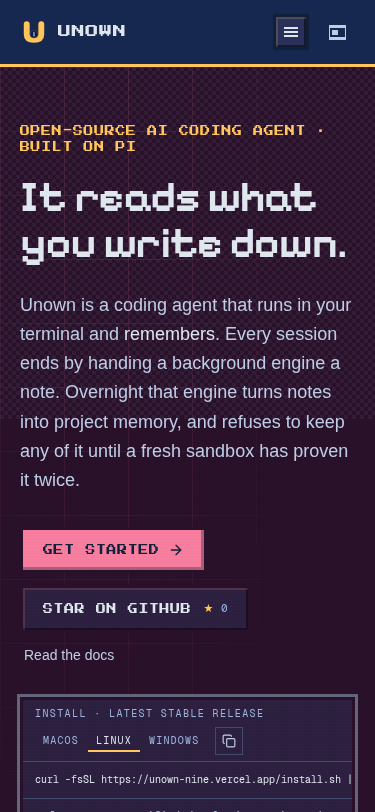
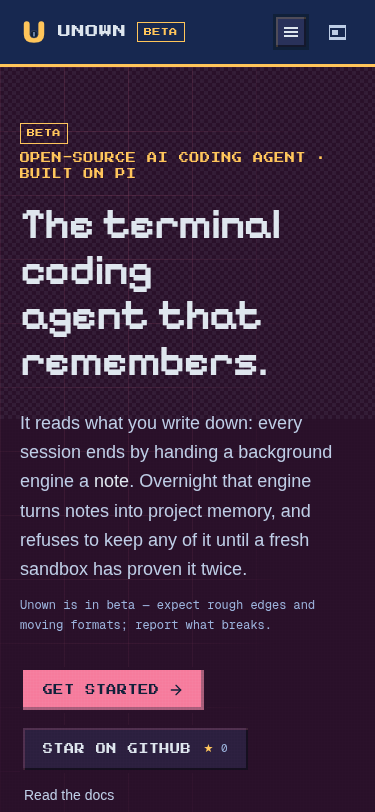
landing: the beta mark — one status, three homes
The page argued capability, proof and record but never said what stage
the product is in; a first-time visitor met full-confidence copy with no
signal that the release line is 0.0.x and formats still move. The mark
ships as the pattern the surveyed field converged on (Vercel/Figma badge
next to the name; Vercel feature pages + Raycast one plain-language
sentence next to the H1): BetaBadge — a bordered pixel chip in the
console grammar, gold on panel, palette tokens only, non-interactive
plain text — in the header wordmark and the hero kicker, with
'Currently in beta.' closing the loop in the footer and the hero
carrying the sentence half ('Unown is in beta — expect rough edges and
moving formats; report what breaks.'). Wording settled against the
research ladder: plain beta, because the product is open, free and
ungated; the claim is defensible by the page's honesty rule.

Budget accounted: +18 words on 66 of headroom (3196/3200 after), OG
shots regenerated for the changed hero. Gates: 105 unit tests (2 new
pins), coverage 100% on changed lines, palette/contrast/theme-toggle/
budget/e2e 9/9 all green; verify-deploy.mjs now asserts both halves of
the badge+sentence pair on the live deployment. Docs: landing-research
'2026-10-25 — the beta mark' section, landing AGENTS.md chrome contract
(and the stale MAX_LISTED=2 doc line corrected to the code's 1).

Changed region(s): [[0.0293, 0.1539, 0.968, 1.0], [0.3813, 0.0308, 0.4987, 0.0616], [0.792, 0.7389, 0.8507, 0.7697]]

diff --git a/src/components/landing/shell.tsx b/src/components/landing/shell.tsx
@@ -442,6 +442,35 @@ export function GhostLink({
 }
 
 /* ------------------------------------------------------------------ */
+/* beta badge                                                          */
+/* ------------------------------------------------------------------ */
+
+/**
+ * The product's stage, said where the product's name is. A bordered pixel
+ * chip in the console grammar — square corners, `gb-label`, gold on panel —
+ * not a rounded SaaS pill: the one smooth-cornered thing on the page would
+ * be the badge, which is exactly the wrong place to break the voice.
+ *
+ * Plain text, not `aria-hidden`: "Beta" is a real status a screen reader
+ * should announce (GOV.UK Tag guidance — status indicators are text, not
+ * iconography), and the hero carries the plain-language sentence that says
+ * what the badge means. Non-interactive on purpose: it states a fact, it is
+ * not a control.
+ */
+export function BetaBadge({ className }: { className?: string }) {
+  return (
+    <span
+      className={
+        "gb-label inline-flex items-center border border-gold px-1.5 py-[3px] text-[8px] leading-none text-gold " +
+        (className ?? "")
+      }
+    >
+      Beta
+    </span>
+  );
+}
+
+/* ------------------------------------------------------------------ */
 /* nav                                                                 */
 /* ------------------------------------------------------------------ */
 
@@ -520,6 +549,11 @@ export function Nav() {
             label="Unown"
           />
           <span className="gb-label text-[13px] text-ink">unown</span>
+          {/* The stage, next to the name — the Vercel/Figma badge placement:
+              a visitor learns "beta" in the same glance that learns the
+              product's name, before any claim is read. Not hidden below a
+              breakpoint: on a phone the header is the first screen too. */}
+          <BetaBadge />
           <span className="gb-label hidden text-[8px] text-faint min-[430px]:inline">
             self-improving
           </span>
@@ -750,6 +784,14 @@ export function Footer() {
             <p className="gb-term mt-3 text-[17px] leading-snug text-faint">
               A terminal coding agent that turns sessions into notes, and notes into
               verified memory.
+            </p>
+            {/* The stage, restated at the bottom: the footer is where a reader
+                who scrolled everything still gets the status before the legal
+                line — and where the beta badge's claim is spelled out in
+                plain words one last time. */}
+            <p className="mt-2 flex items-center gap-2 font-mono text-[11px] text-faint">
+              <span className="size-1 bg-gold/70" aria-hidden="true" />
+              Currently in beta.
             </p>
           </div>
 

diff --git a/src/components/landing/hero.tsx b/src/components/landing/hero.tsx
@@ -3,7 +3,7 @@ import { Glyph } from "./glyph";
 import type { GlyphId } from "./glyphs";
 import { InstallPanel } from "./install-panel";
 import { SessionReplay } from "./session-replay";
-import { CopyButton, GhostLink, PixelCursor, PrimaryLink, GITHUB_URL, DOCS_URL } from "./shell";
+import { CopyButton, GhostLink, PixelCursor, PrimaryLink, GITHUB_URL, DOCS_URL, BetaBadge } from "./shell";
 import { StarCount } from "./star-count";
 
 /**
@@ -170,8 +170,18 @@ export function Hero() {
               <pre>'s min-content; without it the git-clone URL sets the
               column's intrinsic width and the section clips it on phones. */}
           <div className="max-w-2xl min-w-0">
-            <p className="gb-label text-[10px] text-gold">
-              Open-source AI coding agent · built on pi
+            {/* The stage, said in the same breath as the category — the badge
+                the Vercel/Figma product pages carry next to their H1s. It is
+                the `BetaBadge` from shell.tsx (one component, three homes:
+                here, the header wordmark, the footer note), and the sentence
+                under the subhead below is the plain-language half of the
+                pattern: a badge states the stage, a sentence says what it
+                means for the reader. */}
+            <p className="flex flex-wrap items-center gap-x-2.5 gap-y-1.5">
+              <BetaBadge />
+              <span className="gb-label text-[10px] text-gold">
+                Open-source AI coding agent · built on pi
+              </span>
             </p>
 
             {/* The h1 carries the search phrases ("terminal coding agent") —
@@ -190,6 +200,16 @@ export function Hero() {
               <span className="text-ink">note</span>. Overnight that engine turns notes into
               project memory, and refuses to keep any of it until a fresh sandbox has proven it
               twice.
+            </p>
+
+            {/* What "beta" means here, in words — the plain-language half of
+                the badge pattern (Vercel's feature pages pair the badge with
+                one sentence of availability copy; Raycast states it in the
+                subtitle). Honest by the page's own rule: the version line is
+                0.0.x, the changelog records moving formats, and issues are
+                where rough edges go. */}
+            <p className="mt-3 max-w-xl font-mono text-[12px] leading-relaxed text-faint">
+              Unown is in beta — expect rough edges and moving formats; report what breaks.
             </p>
 
             <div className="mt-8 flex flex-wrap items-center gap-3">

diff --git a/src/components/landing/__tests__/landing-copy.test.tsx b/src/components/landing/__tests__/landing-copy.test.tsx
@@ -81,6 +81,24 @@ describe("landing hero", () => {
     expect(container.innerHTML).not.toContain("sk-");
   });
 
+  test("states its beta stage in the badge + plain-language pair the research settled on", () => {
+    setUA(MAC_UA);
+    const { container } = render(<Hero />);
+    // The badge half: the chip in the kicker row, the same component the
+    // header wordmark carries. "Beta" is a real status — plain text a screen
+    // reader announces, never aria-hidden.
+    expect(container.textContent).toContain("Beta");
+    // The plain-language half: a badge states the stage, a sentence says what
+    // it means. The exact wording is pinned so a copy edit cannot quietly
+    // turn the honest sentence into marketing (the page's honesty rule: a
+    // status claim must be defensible — 0.0.x line, moving formats, issues).
+    expect(container.textContent).toContain("Unown is in beta");
+    expect(container.textContent).toContain("expect rough edges and moving formats");
+    // The badge is non-interactive: a status, not a control.
+    const badge = [...container.querySelectorAll("span")].find((s) => s.textContent === "Beta");
+    expect(badge?.querySelector("a, button")).toBeNull();
+  });
+
   test("the install chip defaults to the visitor's OS: the binary one-liner, its note, the CLI-only chain", () => {
     // One command chip above the fold — per OS tab, not a five-command wall.
     // The full-stack source sequence stays in the manual expander below.
@@ -335,6 +353,21 @@ describe("landing shell", () => {
     render(<Footer />);
     const footLinks = screen.getAllByRole("link", { name: /^Dashboard$/i });
     for (const l of footLinks) expect(l.getAttribute("href")).toBe("#showcase");
+  });
+
+  test("the beta stage rides the wordmark in the header and the note in the footer", () => {
+    // Three homes, one component: the header wordmark badge, the hero kicker
+    // badge, the footer sentence. The header is pinned here because it is the
+    // one every page view starts from — a badge only the hero carried would
+    // vanish the moment a visitor scrolls.
+    const { container } = render(<Nav />);
+    // The wordmark link is the one that goes home — the GitHub link and the
+    // CTA are the other <a>s in the header.
+    const wordmark = container.querySelector('a[href="/"]');
+    expect(wordmark?.textContent).toContain("Beta");
+    cleanup();
+    render(<Footer />);
+    expect(screen.getByText("Currently in beta.")).toBeTruthy();
   });
 
   // Below lg the seven anchors live behind the section menu. These pin the

diff --git a/src/components/landing/changelog-data.ts b/src/components/landing/changelog-data.ts
@@ -30,10 +30,10 @@ export interface ChangelogStop {
   groups: ChangelogGroup[];
 }
 
-export const CHANGELOG_TOTAL_ENTRIES = 278;
+export const CHANGELOG_TOTAL_ENTRIES = 279;
 
 export const CHANGELOG_TOTALS: Record<ChangelogBucket, number> = {
-  "Added": 123,
+  "Added": 124,
   "Changed": 18,
   "Deprecated": 0,
   "Removed": 3,
@@ -46,9 +46,9 @@ export const CHANGELOG_STOPS: ChangelogStop[] = [
   {
     "label": "Unreleased",
     "date": null,
-    "total": 11,
+    "total": 12,
     "counts": {
-      "Added": 11,
+      "Added": 12,
       "Changed": 0,
       "Deprecated": 0,
       "Removed": 0,
@@ -60,6 +60,10 @@ export const CHANGELOG_STOPS: ChangelogStop[] = [
       {
         "bucket": "Added",
         "items": [
+          {
+            "title": "landing: the beta mark — the page says plainly what stage the product is in",
+            "behavior": false
+          },
           {
             "title": "tui: OSC 7501 program status — the terminal knows what the agent is doing",
             "behavior": false

diff --git a/docs/landing-research.md b/docs/landing-research.md
@@ -2246,3 +2246,21 @@ Measured on the production build at 1440x900, before and after: 10 bands / 11,70
 **Measured after:** Lighthouse on the production build — **SEO 100, Accessibility 100, Best-Practices 100** (the repo's standing contract); performance 77 in this lab (LCP 3.6 s, TBT 510 ms — the container's CPU, five self-hosted fonts and the client bundle; not part of the contract, and the poster fix from the category-screens round is visible in the request log: no TUI still fetches before the viewport needs them). The scroll budget after both rounds: 12.6vh / 3,157 words against the 13vh / 3,200 caps. Contrast audit 1,362 nodes across both schemes, zero AA failures; claims 63 literals; the full Playwright suite 7 tests green (2 axe passes, budget, 4 SEO).
 
 **Honest limits.** Lighthouse SEO 100 is a hygiene score, not a ranking promise — SERP position is not a build result and this page's honesty rule does not extend to promising traffic. The `Organization.logo` points at `logo.svg` because no square raster exists; Google's logo markup prefers a square image, and a 512×512 PNG is the one artifact this round would still benefit from minting through the creature-pipeline's rules. Nobody has claimed the site in Search Console (the `verification` metadata field is stubbed for the day someone does, and the sitemap is discoverable via robots.txt until then). And the FAQPage/`featureList` value is a bet on answer-engine crawlers reading structured data — it cannot be measured from this checkout, only reasoned about.
+
+## 2026-10-25 — the beta mark: one status, three homes
+
+**The gap this round closed.** The page argued capability, proof and record — and never said what stage the product is in. A first-time visitor met full-confidence copy with no signal that the release line is 0.0.x and formats still move; the only maturity hints were the version number in the JSON-LD (machine-readable, invisible) and the changelog rail (three bands deep). The user-facing ask: state it properly on the landing page.
+
+**The survey.** How mature products label pre-GA stages (research receipts: vercel.com/docs — lowercase `beta` pills ride eight sidebar nav items and sit beside the H1 on feature pages, paired with one plain-language availability sentence; figma.com/sites, /specs, /buzz — "Beta" pills next to product names in nav and headers, "New" reserved for just-shipped; docs.stripe.com/changelog — the lifecycle taxonomy Private beta → Public preview → GA; github.blog/changelog — lifecycle encoded in titles ("…in public preview", "…generally available"); raycast.com/blog — "now in public beta" stated in the subtitle; tailwindcss.com/blog/tailwindcss-v4-beta — "the first public beta release" plus an honest call for bug reports; learn.microsoft.com style guide — "Avoid using *beta*… use *preview* instead"; design-system.service.gov.uk/components/tag — status indicators are text, not iconography; WCAG 2.2 contrast — badge text is body-text-adjacent, 4.5:1 applies; MDN banner-landmark guidance — dismissible announcements must live in `banner` and be keyboard-operable). The convergence across all of them: **a small badge next to the product's name, plus one plain-language sentence near the H1 that says what the stage means.** Nobody credible ships only a footer footnote.
+
+**The decisions.**
+
+1. **Wording: plain "beta".** The ladder the survey produced — private beta (invite-only) → public beta (open signup, gated product) → beta (shipped feature surface) → preview → early access (waitlist framing) → research preview → GA. Unown is open-source, free and ungated: there is no signup to be public about and no waitlist to hold. "Preview" is the Microsoft-recommended softening, and softening is not the goal — accuracy is. The claim is defensible by the page's own honesty rule: the version line is 0.0.x, the changelog records format changes under every release, and GitHub issues are the real reporting lane.
+2. **One component, three homes.** `BetaBadge` (shell.tsx) — a bordered pixel chip in the console grammar: square corners, `gb-label`, gold on panel, palette tokens only (no new hex, so the GBA-grid and AA gates stay green by construction). Homes: the **header wordmark** (next to "unown", visible at every breakpoint — the placement Vercel and Figma both chose, so a visitor learns the stage in the same glance that learns the name), the **hero kicker** (badge + the existing category line, i.e. adjacent to the H1), and the **footer** ("Currently in beta." under the description — the reader who scrolled everything still gets the status before the legal line).
+3. **The plain-language half.** "Unown is in beta — expect rough edges and moving formats; report what breaks." One sentence in the hero, `text-faint` mono under the signature subhead: a badge states the stage; a sentence says what it means. The wording names the two real costs (instability, churn) and the one real remedy (file it), which is the Vercel feature-page pattern compressed to the page's voice.
+4. **A status, not a control.** The badge is non-interactive plain text — announced by screen readers (GOV.UK Tag guidance: status is text), never `aria-hidden`, no dismiss action (a beta stage is not a notification to clear; MDN's dismissible-banner rules apply to announcements that go away, and this one is permanent until GA).
+5. **Budget accounting.** The page was at 3,134 of 3,200 words and 12.4vh of 13vh before the round. The mark costs 18 words (two badge chips, one sentence, one footer note) — 3,153 after, 12.5vh — inside both gates with the changelog rail's own valve untouched. The tracked OG shots regenerate for the changed hero, per the standing rule.
+
+**The gates that pin it.** `landing-copy.test.tsx` gained two pins: the hero suite asserts the badge + sentence pair and that the badge contains no link or button (a status, not a control); the shell suite asserts the header wordmark carries "Beta" and the footer carries "Currently in beta." `verify-deploy.mjs` now asserts both halves on the live deployment — a badge whose sentence was copy-edited away would pass the chip check and quietly stop meaning anything to a reader, so both are checked. Typecheck, lint, the palette gate, the claims gate and the a11y suite ran unchanged-green; the badge introduces no new hex, no new heading level and no new focusable element.
+
+**What was deliberately not done.** No top-of-page announcement banner (the sticky header already occupies the top slot; a second bar costs scroll budget to say what the badge says for one word). No FAQ entry (the accordion and FAQPage JSON-LD are pinned at seven questions by three suites — the stage sentence in the hero answers the question the FAQ would). No version-pin in the badge text ("Beta" not "0.0.15-beta") — the version contract is stable-only `0.0.x` with no prerelease hyphens, and the JSON-LD `softwareVersion` already carries the number where machines read it.

diff --git a/CHANGELOG.md b/CHANGELOG.md
@@ -13,6 +13,7 @@ Repo conventions: measured claims cite their receipts (`docs/testing-strategy.md
 
 ### Added
 
+- **landing: the beta mark — the page says plainly what stage the product is in** — the landing page never stated its maturity: a first-time visitor met full confidence copy with no signal that the release line is 0.0.x and formats still move. The status now ships as the pattern the surveyed field converged on (Vercel/Figma: a small badge next to the product name; Vercel feature pages + Raycast: one plain-language sentence next to the H1): **`BetaBadge`** — one bordered pixel chip in the console grammar (square corners, `gb-label`, gold on panel, plain text a screen reader announces, non-interactive) — with three homes: the header wordmark (next to "unown", visible at every breakpoint), the hero kicker (badge + the existing category line), and the footer ("Currently in beta." under the description). The plain-language half lives in the hero: "Unown is in beta — expect rough edges and moving formats; report what breaks." Wording settled against the ladder the research produced (private beta → public beta → beta → preview → early access): plain "beta", because the product is open, free, ungated — "preview" is the Microsoft-style softening and "early access" implies a waitlist this project does not run; the claim is defensible by the page's own honesty rule (0.0.x version line, a changelog that records format changes, issues as the reporting lane). Budget accounted: +18 words on a 66-word headroom, 12.5vh of 13vh; OG shots regenerated for the changed hero. Verified: `bun test src` green (new pins: the badge pair in the hero suite, the wordmark + footer note in the shell suite), typecheck + lint unchanged, the palette gate green (no new hex — the chip reuses tokens), the budget gate green, and `verify-deploy.mjs` now asserts both halves of the pair on the live deployment. Docs: [landing-research.md — the beta mark](docs/landing-research.md#2026-10-25--the-beta-mark-one-status-three-homes), the landing AGENTS.md chrome contract.
 - **tui: OSC 7501 program status — the terminal knows what the agent is doing** (the 2026-10 convergence round, part 1/7) — the freshest cross-agent convergence found in the reverse-engineering sweep: Claude Code shipped it (v2.1.295, 2026-10-08), Crush followed (v0.98.0, 2026-10-08), Goose landed it the same month (v1.56.0, 2026-10-23) — Mitchell Hashimoto's Program Status Protocol (mitchellh.com/writing/program-status-osc7501, rev 0.4). Unown's TUI already *parsed* the protocol's feature-detection reply (`tui/src/stdin-buffer.ts` tolerated `7501;?` among XTVersion/Kitty replies) but never *emitted* — the half every 2026 terminal (Rex, Ghostty) actually consumes. Now the session lifecycle reports itself: `idle` on boot, `working` with the prompt preview when a turn starts, `blocked kind=question` while the ask_user_question dialog waits, `idle` with the answer preview at turn end, `clear` on shutdown (the spec's working/blocked-must-not-outlive-us rule). Spec-exact emitter (`src/osc-status.ts`): base64 msg/title with the 2048/192 decoded and 2732/256 encoded caps, id-path segment rules, the 4096-byte whole-sequence ceiling, TTY-only writes, `PROGRAM_STATUS=0` + `UNOWN_OSC7501=0` opt-outs, control-characters-become-spaces sanitization (deleting them would join words). Tests: `test/osc-status.test.ts` pins the grammar byte-for-byte, the limits, the gating and the lifecycle helpers.
 - **tui: the turn meter — per-turn cost on screen, not three commands deep** (2/7) — per-turn token/cost visibility became table stakes without Unown noticing: Goose ships a per-message tokens/cost/TTFT row since v1.42 (Aug 2026), Gemini CLI's `/stats` grew model + tool subviews, Claude Code keeps context % and cost in the status line at all times. Unown had every *number* (`/context`, `/usage`, `/session`) but no live line — you ran a command to see what the last turn cost. Now every `turn_end` sets the footer chip **`turn 3.4s · ctx 62% · in 45.2k out 1.1k (cached 42k) · ~$0.0084`** through pi's `setStatus` seam (the same joined row the goal chip uses): turn duration, live context %, the /usage session-rollup attribution, and the usage-cli price model (`UNOWN_PRICE_<MODEL>_IN/_OUT` overrides; an unknown model's price is never invented — the segment drops). `UNOWN_TURN_METER=0` off. Tests: `test/turn-meter.test.ts` (gate, compact formatters, cost arithmetic, assembled chip).
 - **agent: the monitor tool — watch a process, get its lines back** (3/7) — Claude Code's Monitor tool (Oct 2026) lets the agent react to what a process *prints* (a dev server's ready line, a watcher's error, a CI tail) instead of guessing from one-shot exit codes. Ported to pi's request/response tool seams honestly: `monitor` runs a command for a **bounded window** (default 30s, cap 120s), captures each stdout/stderr line with timestamps, and returns them as one tool result — ending on window expiry, the line cap (default 200, cap 2000), the process exiting, a `stop_pattern` regex match (the "listening on|ready in" case), or session abort; the result tail-caps at 200 lines so a `yes`-style pipe can never balloon the context (the F10 bounded-posture rule); the child gets SIGTERM then SIGKILL. Guardrails: the **bash deny-list applies to watched commands exactly as to one-shot bash** (exfiltration/destructive shapes refused pre-spawn), and plan mode allows only the read-only allowlist. Tests: `test/monitor.test.ts` (param clamps, all four stop reasons via an injected spawner, deny gate, rendering).

diff --git a/src/components/landing/AGENTS.md b/src/components/landing/AGENTS.md
@@ -13,17 +13,17 @@ Every band of the marketing page: the hero, the learning loop, the capability de
 
 **Structure — nine bands, one file each, order is the argument:**
 
-1. `hero.tsx` (psychic) — h1 "The terminal coding agent that remembers." + the signature subhead, the `Seal`, `InstallPanel` (OS-tabbed; default = newest stable release binary; `detectOS()` pure UA sniff, server default macOS), three collapsed `<details>` expanders (agent delegation prompt, source install sequence, CLI command surface gated against `cli.ts` HELP), `PREREQS`, trust strip, `SessionReplay`.
+1. `hero.tsx` (psychic) — h1 "The terminal coding agent that remembers." + the signature subhead, the `BetaBadge` in the kicker row + the plain-language beta sentence under the subhead (one status, two halves: chip + words), the `Seal`, `InstallPanel` (OS-tabbed; default = newest stable release binary; `detectOS()` pure UA sniff, server default macOS), three collapsed `<details>` expanders (agent delegation prompt, source install sequence, CLI command surface gated against `cli.ts` HELP), `PREREQS`, trust strip, `SessionReplay`.
 2. `loop.tsx` (leaf) — how it learns: three tabbed beats (Work/Learn/Dream), each body a literal gated artifact (note template from `termhooks.ts`, log lines from `harness.ts`, real memory lines) + the terminal-vs-engine pair strip rendering generated `ENGINE_JOBS`.
 3. `dex.tsx` (magma) — the capability dex: one numbered spine, FRLG two-pane listbox (roving tabindex, selection follows focus, fuse.js search scoped to the active screen), screen selector, detail pane mounts ALL entries (inactive `hidden`), lazy posters (`data-poster`), synthesized Web-Audio cries (forms only), `#dex-<id>` deep links via `history.replaceState`, the `/split*` display-command table (its own gated `COMMANDS` array — `parseCommands` in the claims gate reads the FIRST `const COMMANDS`, so this file carries exactly one).
 4. `showcase.tsx` (gold) — mission control: framed real `unown dashboard` PTY stills from `public/landing/tui/dashboard/stills/`, the twelve-surface `SCREENS` list, the addons strip (from `addons-data.ts`). Dashboard affordances point at in-page anchors only — the web dashboard is retired (D7).
 5. `proof.tsx` (magma) — one tabbed band, three panes (Benchmarks / Integrity / Models), all panes stay mounted with `hidden` so generated numbers stay in the SSR DOM for crawlers and gates.
 6. `alphabet.tsx` (psychic) — the identity: 28-tile glyph wall, decode panel driven by `LEXICON_BY_ID`, the static Z highlight card (lore reachable without clicking), non-affiliation one-liner.
 7. `faq.tsx` (gold) — seven skeptic questions through the vendored Radix accordion; `faq-data.ts` is the one source for BOTH the accordion and the FAQPage JSON-LD.
-8. `changelog.tsx` (aqua) — the shipping rail: fixed-height horizontal band, native scroll only, `MAX_LISTED = 2` titles then "+N more" (the valve that keeps the rail inside the scroll budget — see the comment at the constant for the 5→3→2 history), `▶` marks the newest cut stop, all numbers read off data.
+8. `changelog.tsx` (aqua) — the shipping rail: fixed-height horizontal band, native scroll only, `MAX_LISTED = 1` titles then "+N more" (the valve that keeps the rail inside the scroll budget — see the comment at the constant for the 5→3→2→1 history), `▶` marks the newest cut stop, all numbers read off data.
 9. `finale.tsx` (leaf) — the last ask + the `Spellbox` toy, CTA links, Konami receipt.
 
-`shell.tsx` owns the shared chrome (`Nav` + `NAV_LINKS` mirroring the anchors, `Footer` with the canonical non-affiliation notice that `verify-deploy.mjs` asserts, `ThemeToggle` auto→light→dark persisting `unown-theme`, `TerminalWindow`, links, `SectionHead`, hue/tone helpers). `effects.tsx` owns `LandingStyles` (the `<noscript>` restore that undoes framer's inline `opacity:0`), `LetterRainProvider`, `AlphabetWakeProvider`, `useKonami`. `LandingMotion` (shell.tsx) is the ONE place framer reduced-motion is handled (`reducedMotion="user"`).
+`shell.tsx` owns the shared chrome (`Nav` + `NAV_LINKS` mirroring the anchors, the `BetaBadge` the header wordmark and the hero kicker both render (one component, two badge homes; the footer's "Currently in beta." line is the third, word-only), `Footer` with the canonical non-affiliation notice that `verify-deploy.mjs` asserts, `ThemeToggle` auto→light→dark persisting `unown-theme`, `TerminalWindow`, links, `SectionHead`, hue/tone helpers). `effects.tsx` owns `LandingStyles` (the `<noscript>` restore that undoes framer's inline `opacity:0`), `LetterRainProvider`, `AlphabetWakeProvider`, `useKonami`. `LandingMotion` (shell.tsx) is the ONE place framer reduced-motion is handled (`reducedMotion="user"`).
 
 **Data — three files are GENERATED, never hand-edit (each carries the header comment):**
 
